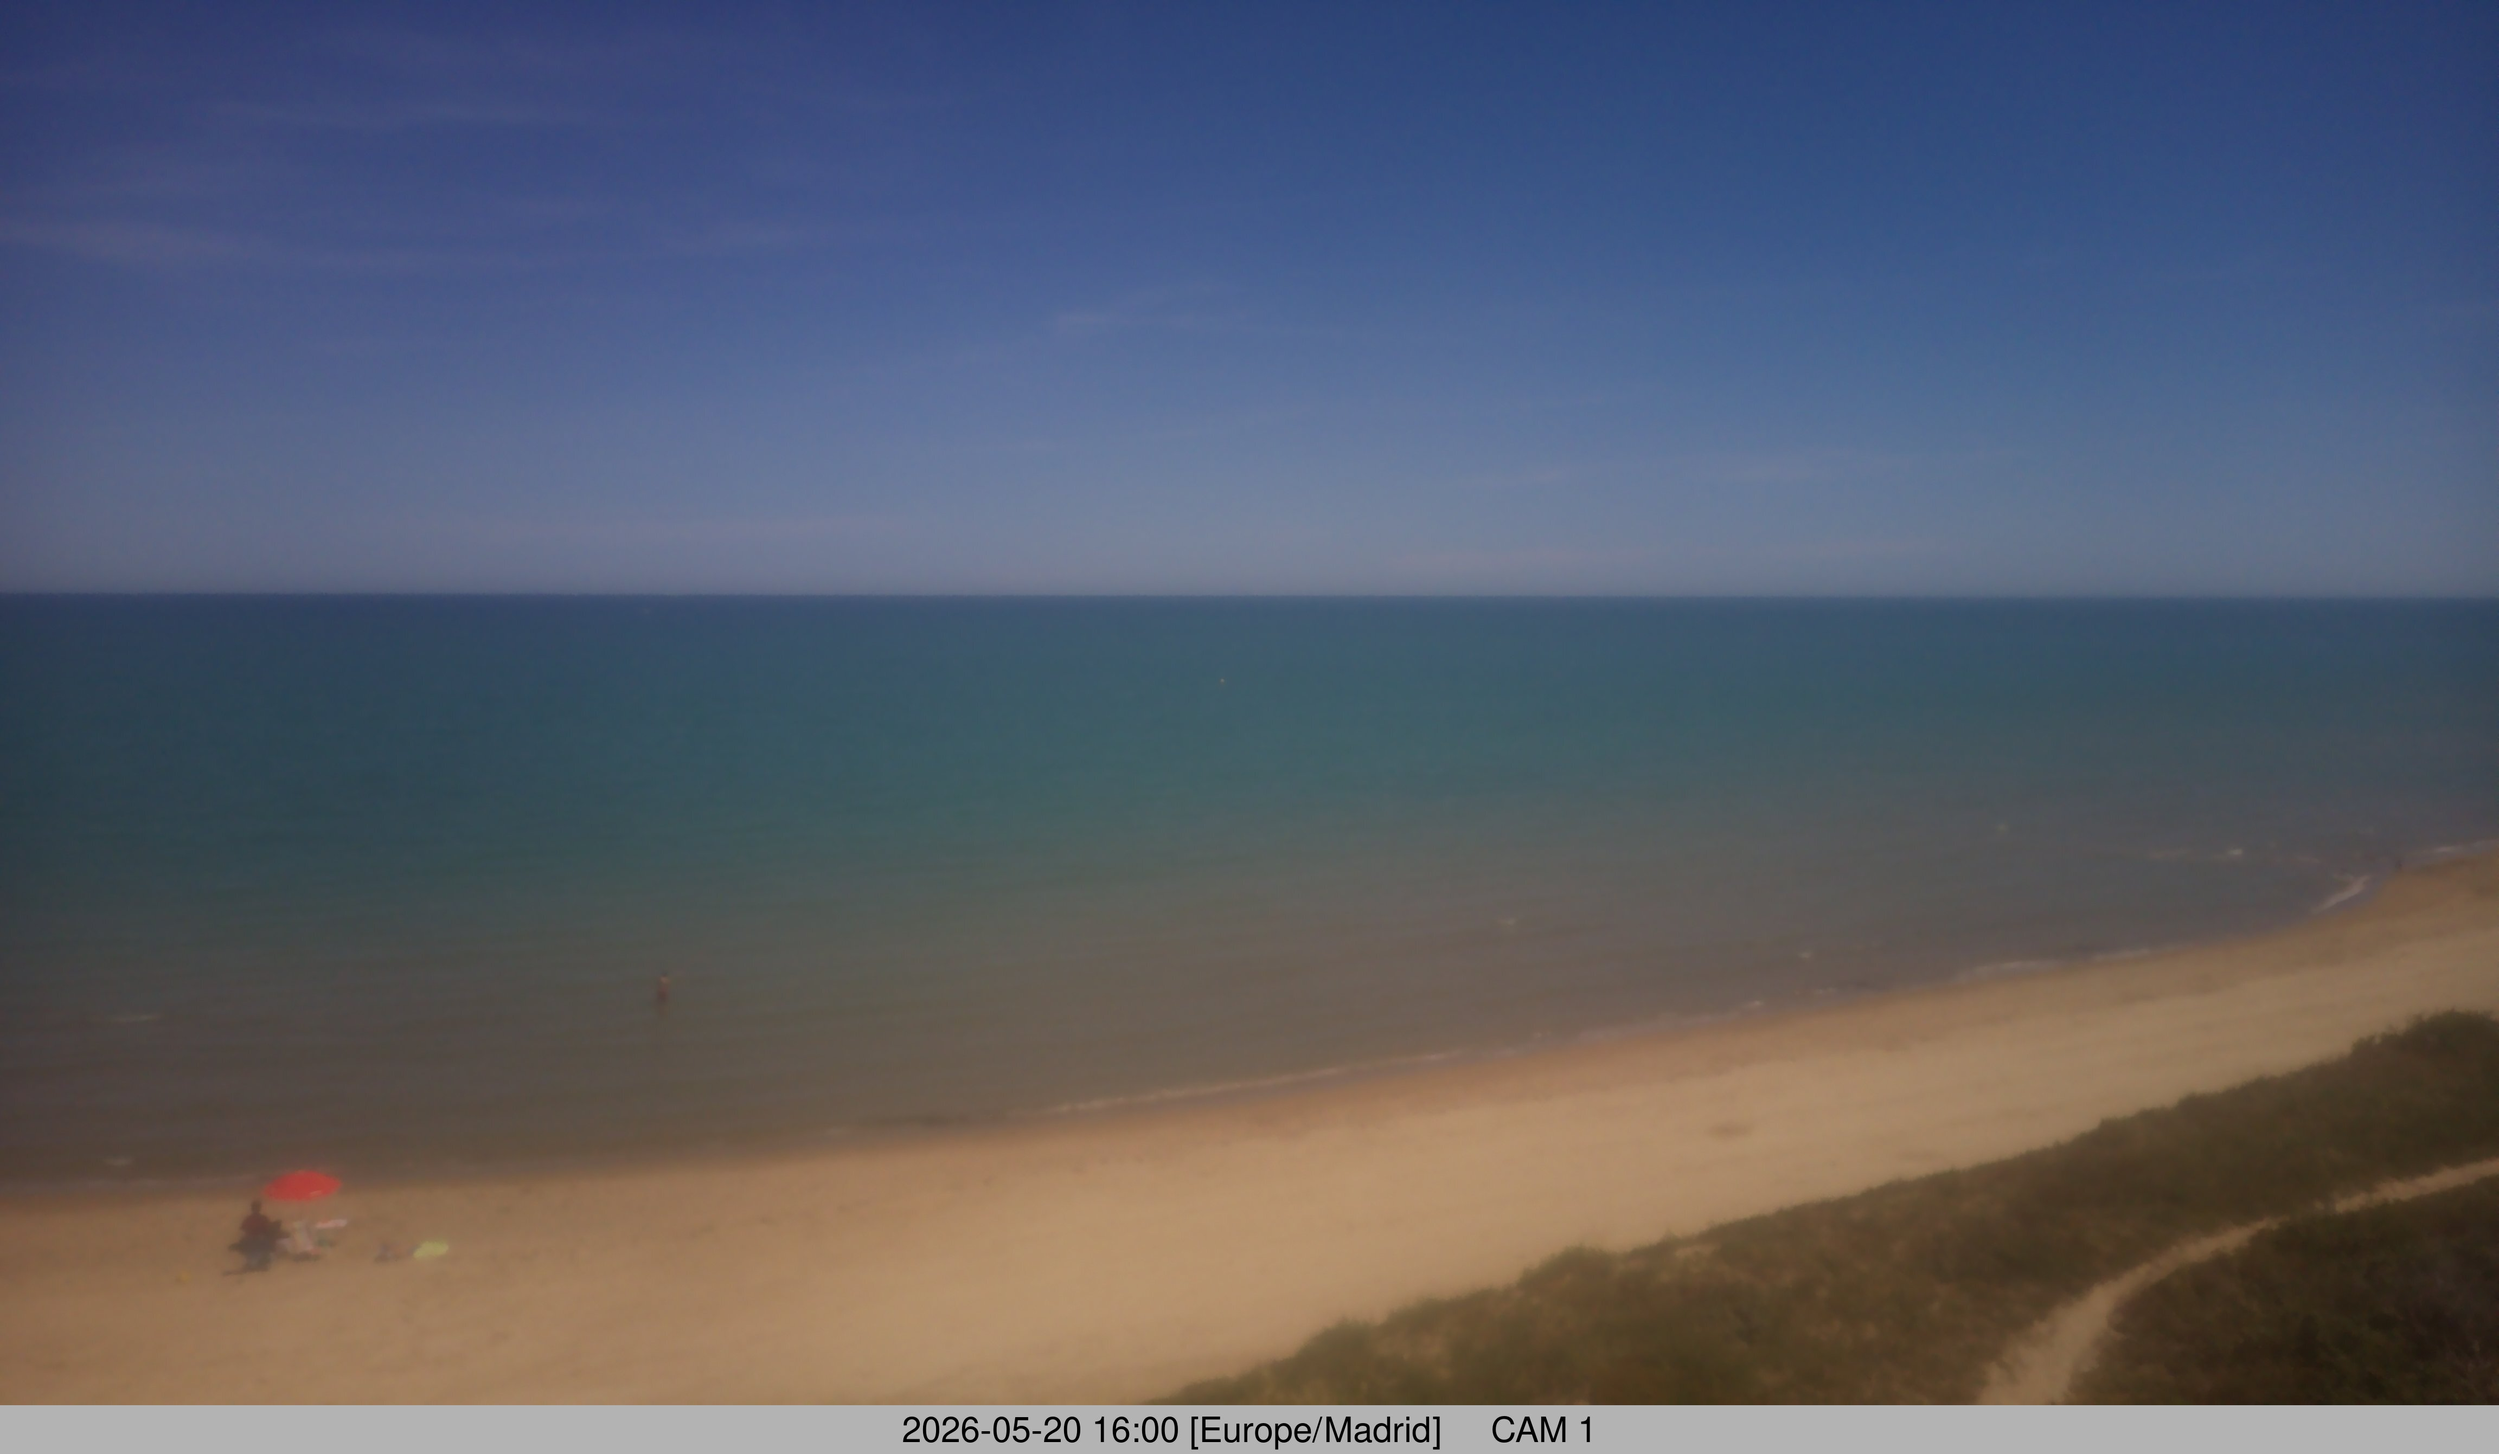
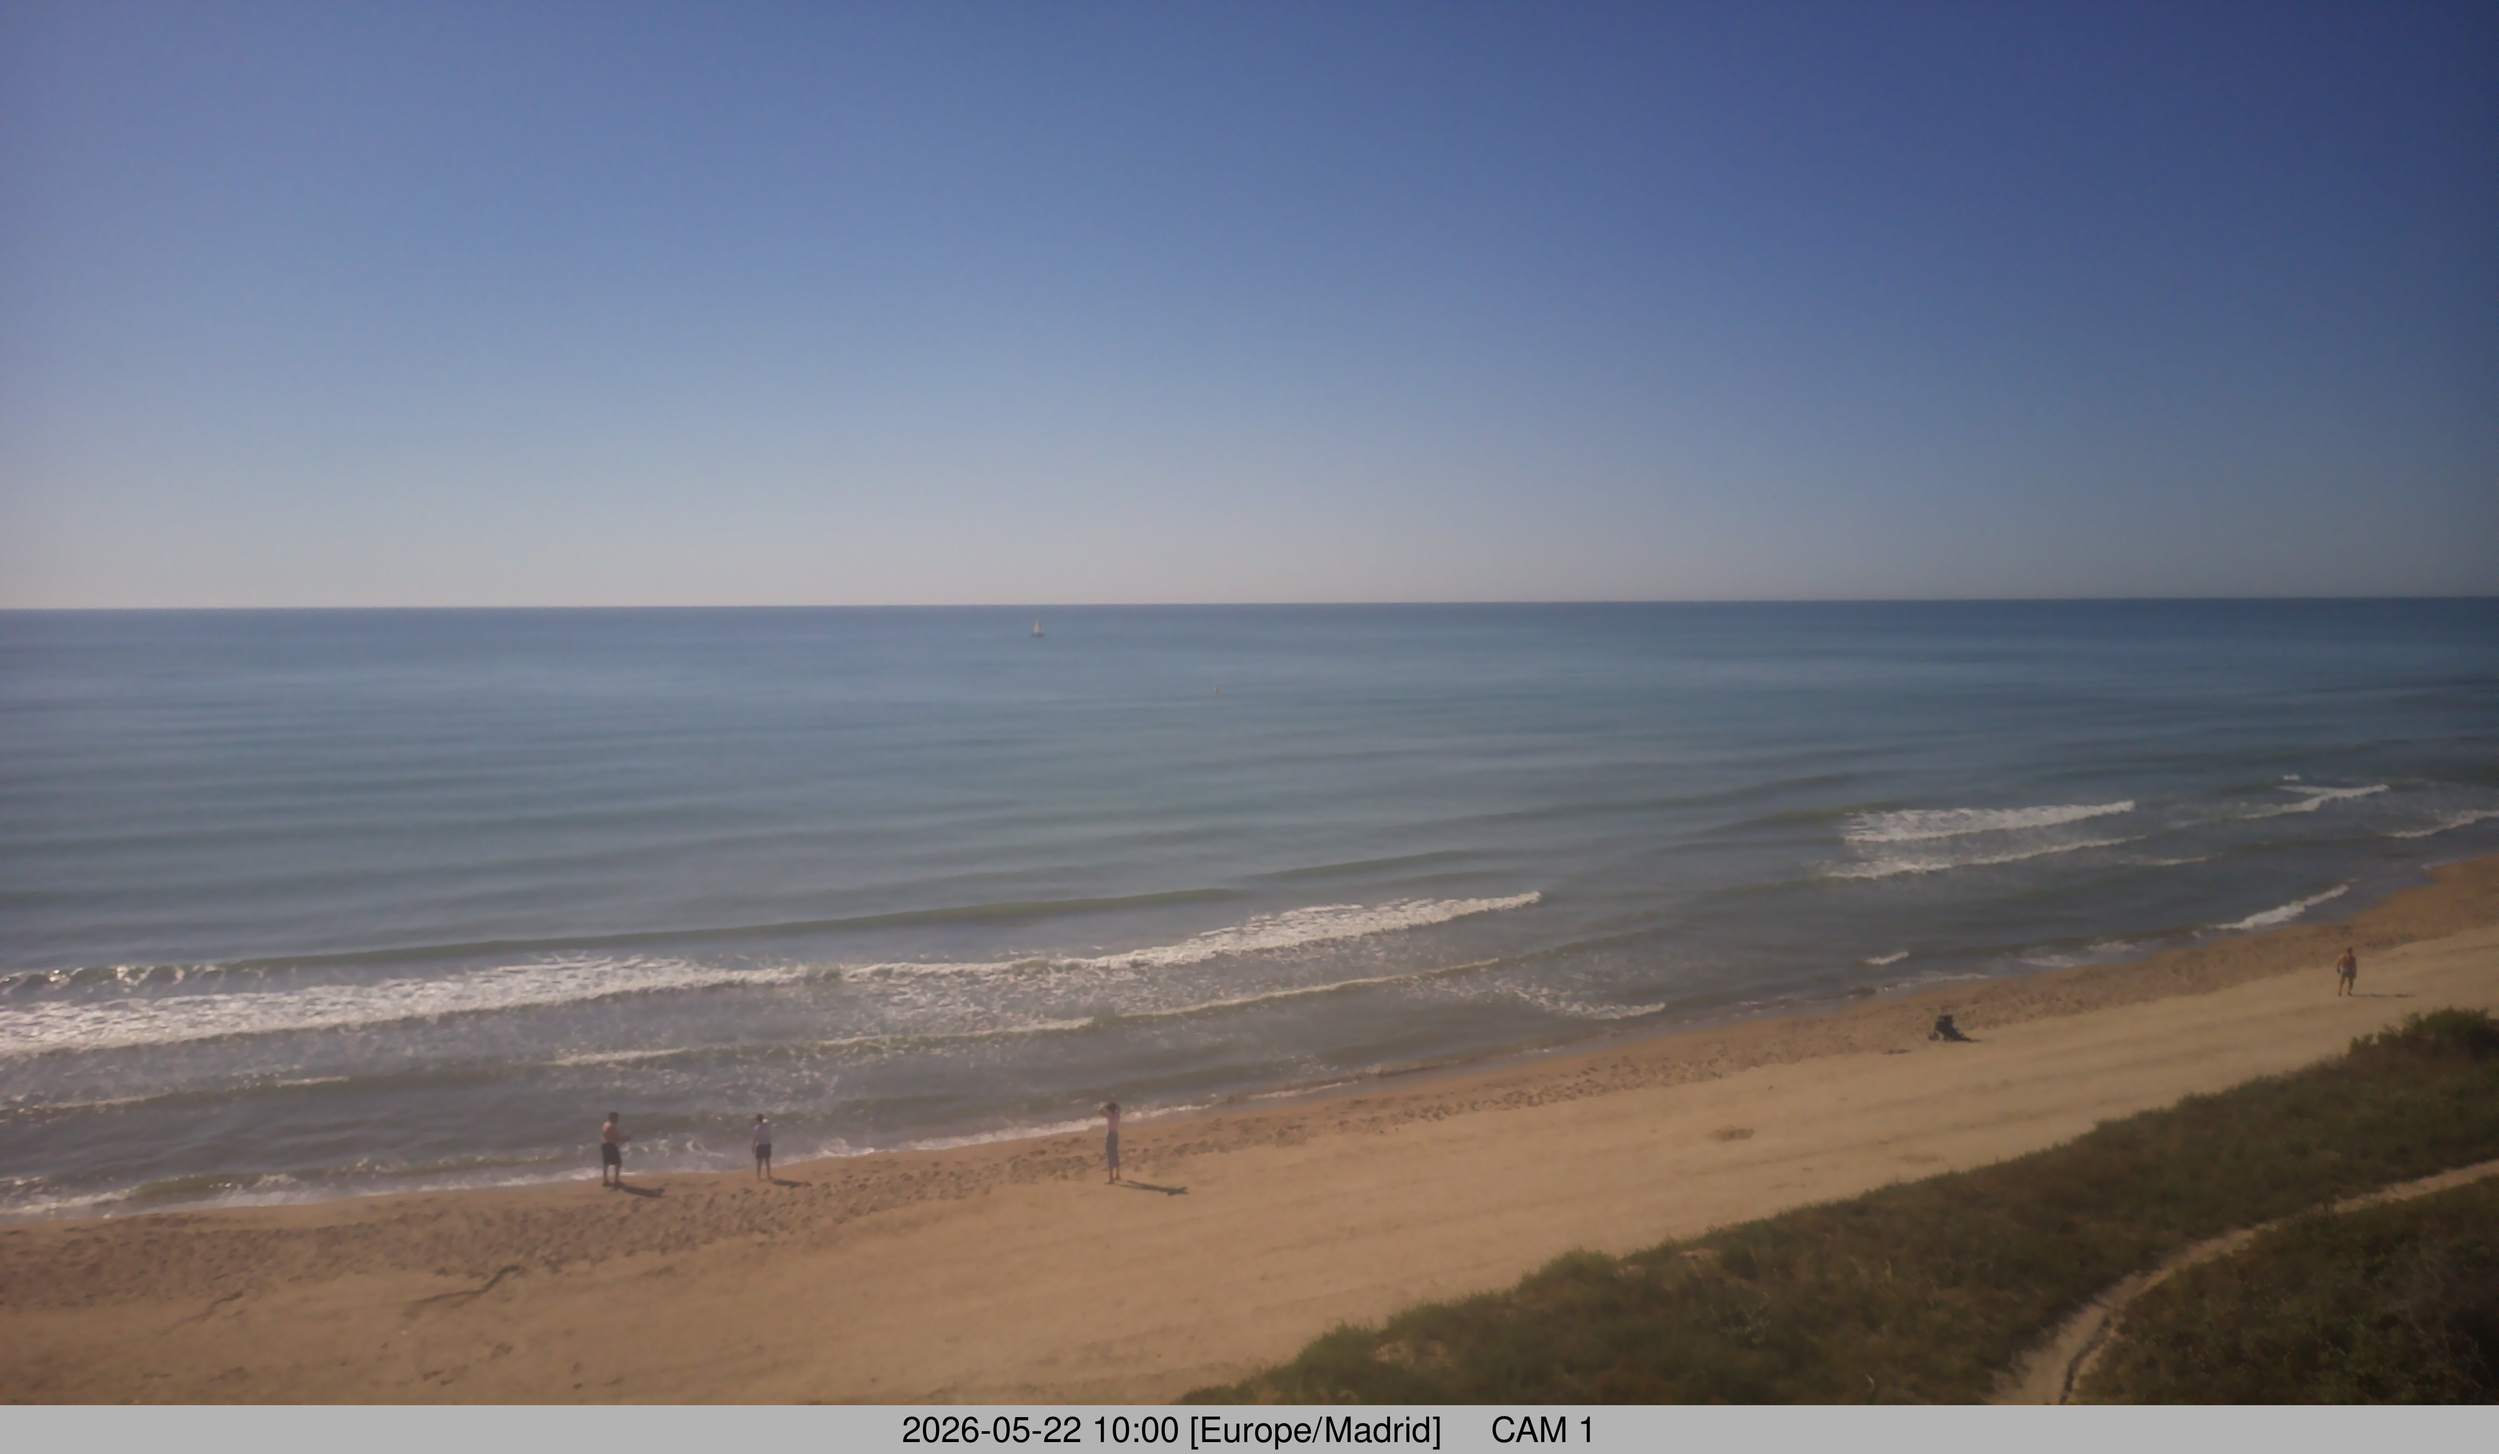
downlad images from each camera

diff --git a/obscape_api.py b/obscape_api.py
@@ -201,35 +201,49 @@ def main():
         print("  [!] Sin cámaras. Verificar credenciales.")
         sys.exit(1)
 
-    station_id = args.station or stations[0]["id"]
-    station_name = next((s["name"] for s in stations if s["id"] == station_id), station_id)
-    print(f"\n=== Datos de {station_name} (id={station_id}) ===")
+    # Si se especifica --station, trabajar solo con esa; si no, usar todas
+    if args.station:
+        target_stations = [s for s in stations if s["id"] == args.station]
+        if not target_stations:
+            print(f"  [!] Estación {args.station} no encontrada.")
+            sys.exit(1)
+    else:
+        target_stations = stations
 
     if args.download:
         if args.from_dt and args.to_dt:
             hour = None if args.all_hours else 12
-            saved = client.download_range(
-                station_id, station_name, args.from_dt, args.to_dt, out_dir, hour_filter=hour
-            )
-            print(f"\n{len(saved)} imágenes descargadas en {out_dir}/{station_name.replace(' ', '_')}/")
+            total = 0
+            for s in target_stations:
+                print(f"\n=== Descargando {s['name']} (id={s['id']}) ===")
+                saved = client.download_range(
+                    s["id"], s["name"], args.from_dt, args.to_dt, out_dir, hour_filter=hour
+                )
+                total += len(saved)
+                print(f"  {len(saved)} imágenes en {out_dir}/{s['name'].replace(' ', '_')}/")
+            print(f"\nTotal: {total} imágenes descargadas.")
         else:
-            print("Descargando última imagen...")
-            latest_data = client.get_station_data(station_id, latest_hours=1, tz="local")
-            points = latest_data.get("data", [])
-            meta = points[-1] if points else {}
-            client.download_image(station_id, station_name, "latest", out_dir, metadata=meta)
+            print("\nDescargando última imagen de cada cámara...")
+            for s in target_stations:
+                print(f"\n=== {s['name']} (id={s['id']}) ===")
+                latest_data = client.get_station_data(s["id"], latest_hours=1, tz="local")
+                points = latest_data.get("data", [])
+                meta = points[-1] if points else {}
+                client.download_image(s["id"], s["name"], "latest", out_dir, metadata=meta)
     else:
-        # Mostrar metadatos / últimas observaciones
+        # Mostrar metadatos / últimas observaciones de la(s) estación(es)
         latest = args.latest or 24
-        data = client.get_station_data(station_id, latest_hours=latest, tz="local")
-        params_info = data.get("parameters", [])
-        points = data.get("data", [])
-        print(f"Parámetros: {[p['name'] for p in params_info]}")
-        print(f"Puntos en las últimas {latest}h: {len(points)}")
-        if points:
-            print("Últimos 3 puntos:")
-            for pt in points[-3:]:
-                print(f"  {pt}")
+        for s in target_stations:
+            print(f"\n=== Datos de {s['name']} (id={s['id']}) ===")
+            data = client.get_station_data(s["id"], latest_hours=latest, tz="local")
+            params_info = data.get("parameters", [])
+            points = data.get("data", [])
+            print(f"Parámetros: {[p['name'] for p in params_info]}")
+            print(f"Puntos en las últimas {latest}h: {len(points)}")
+            if points:
+                print("Últimos 3 puntos:")
+                for pt in points[-3:]:
+                    print(f"  {pt}")
 
 
 if __name__ == "__main__":
